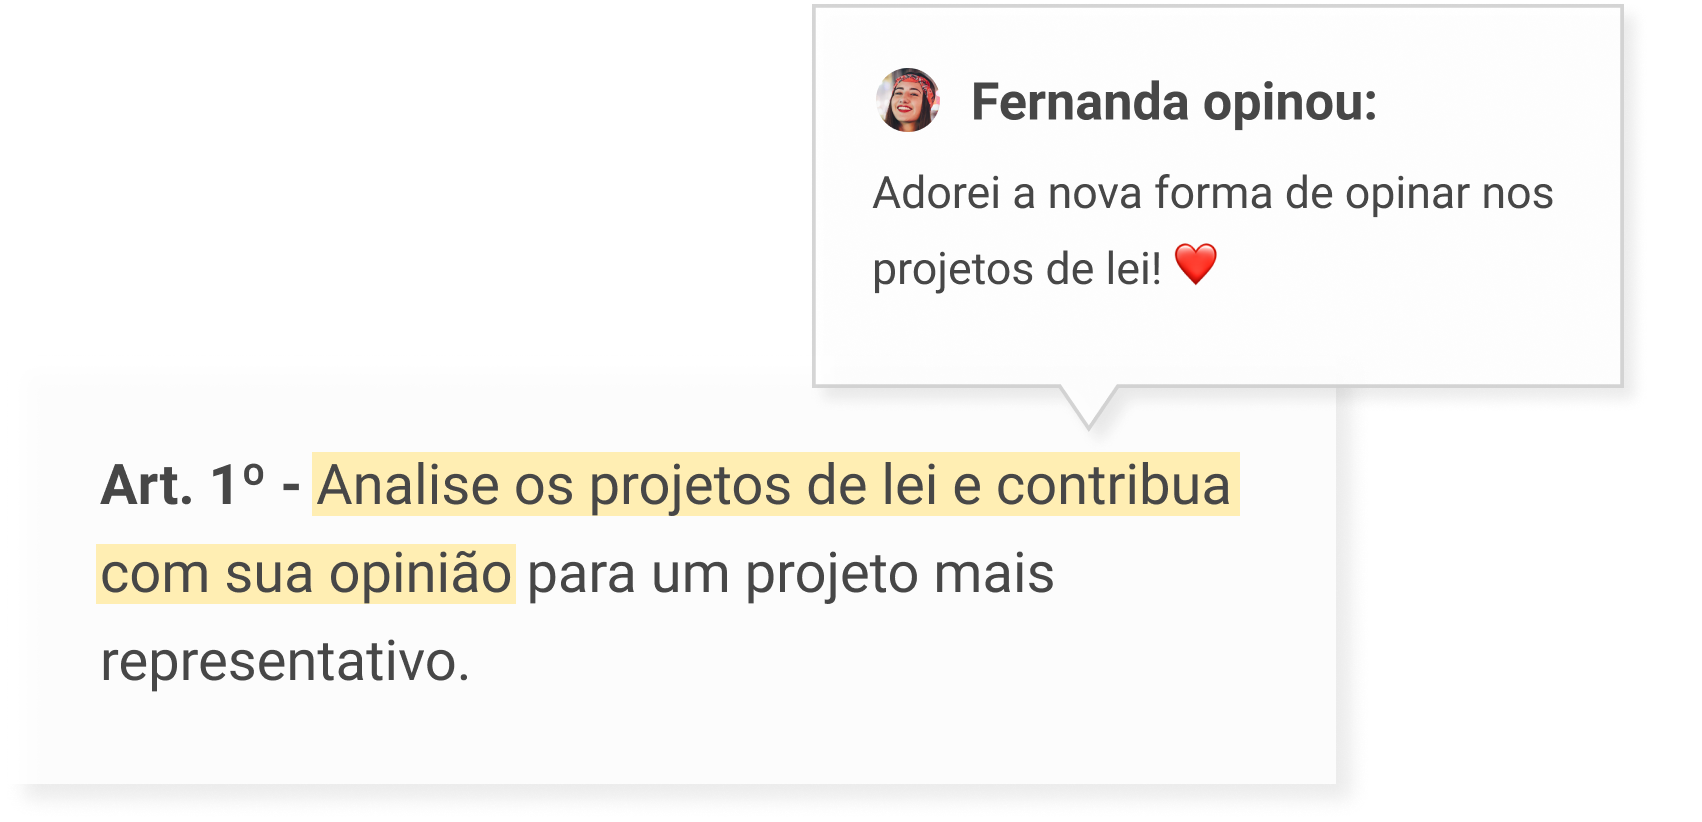
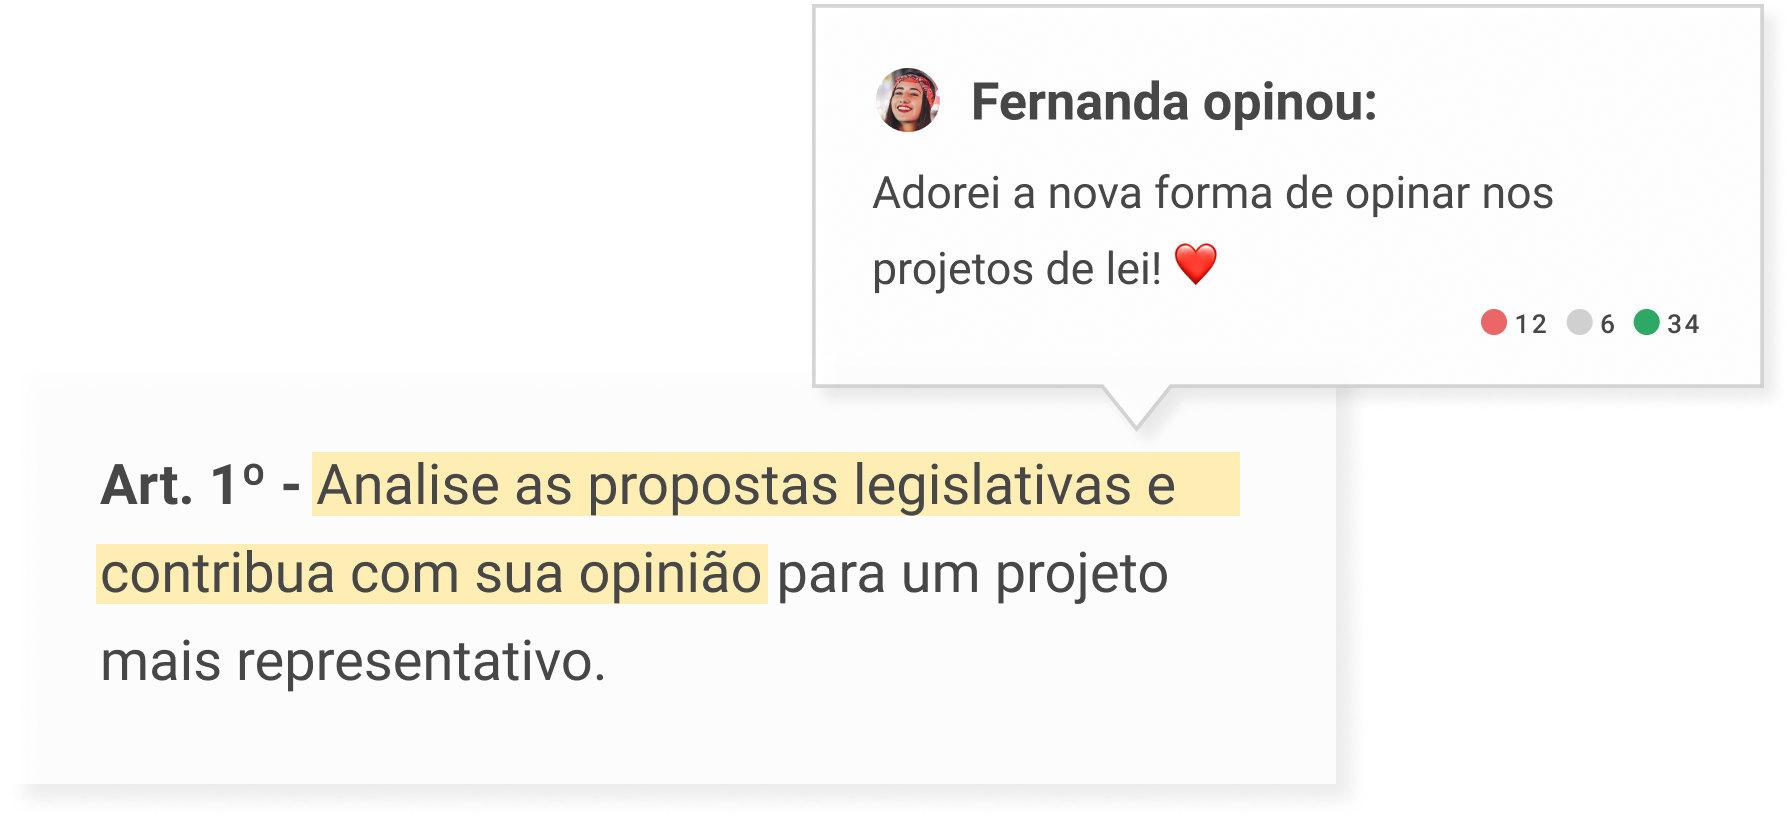
Change "project" labels to "legislative proposals"

diff --git a/src/templates/emails/remove_participant.html b/src/templates/emails/remove_participant.html
@@ -290,7 +290,7 @@
                             <td style="overflow-wrap:break-word;word-break:break-word;padding:12px;font-family:arial,helvetica,sans-serif;" align="left">
 
                               <div style="color: #000; line-height: 150%; text-align: center; word-wrap: break-word;">
-                                <p style="margin-top: 13px; margin-bottom: 13px; text-align: center; line-height: 150%; font-size: 14px;"><span style="color: #474747; font-family: Roboto, Tahoma, sans-serif; font-size: 14px; line-height: 21px;"><span style="font-size: 16px; line-height: 24px;">Voc&ecirc; foi removido do projeto {{ document.title }} pelo usu&aacute;rio {{ document.owner }}</span></span>
+                                <p style="margin-top: 13px; margin-bottom: 13px; text-align: center; line-height: 150%; font-size: 14px;"><span style="color: #474747; font-family: Roboto, Tahoma, sans-serif; font-size: 14px; line-height: 21px;"><span style="font-size: 16px; line-height: 24px;">Voc&ecirc; foi removido da proposta legislativa {{ document.title }} pelo usu&aacute;rio {{ document.owner }}</span></span>
                                 </p>
                               </div>
 
@@ -307,7 +307,7 @@
                               <div align="center">
                                 <!--[if mso]><table width="100%" cellpadding="0" cellspacing="0" border="0" style="border-spacing: 0; border-collapse: collapse; mso-table-lspace:0pt; mso-table-rspace:0pt;font-family:arial,helvetica,sans-serif;"><tr><td style="font-family:arial,helvetica,sans-serif;" align="center"><v:roundrect xmlns:v="urn:schemas-microsoft-com:vml" xmlns:w="urn:schemas-microsoft-com:office:word" href="http://{{ site_url }}{% url 'home' %}" style="height:44px; v-text-anchor:middle; width:198px;" arcsize="0%" stroke="f" fillcolor="#2da965"><w:anchorlock/><center style="color:#FFFFFF;font-family:arial,helvetica,sans-serif;"><![endif]-->
                                 <a href="http://{{ site_url }}{% url 'home' %}" target="_self" style="display: inline-block;font-family:arial,helvetica,sans-serif;text-decoration: none;-webkit-text-size-adjust: none;text-align: center;color: #FFFFFF; background-color: #2da965; border-radius: 0px; -webkit-border-radius: 0px; -moz-border-radius: 0px; width: auto; padding: 14px 34px; mso-border-alt: none;">
-                                  <span style="line-height:120%;">OUTROS PROJETO</span>
+                                  <span style="line-height:120%;">OUTRAS PROPOSTAS LEGISLATIVAS</span>
                                 </a>
                                 <!--[if mso]></center></v:roundrect></td></tr></table><![endif]-->
                               </div>

diff --git a/src/templates/emails/owner_invitation.html b/src/templates/emails/owner_invitation.html
@@ -290,7 +290,7 @@
                             <td style="overflow-wrap:break-word;word-break:break-word;padding:12px;font-family:arial,helvetica,sans-serif;" align="left">
 
                               <div style="color: #000; line-height: 150%; text-align: center; word-wrap: break-word;">
-                                <p style="margin-top: 13px; margin-bottom: 13px; color: #474747; font-family: Roboto, Tahoma, sans-serif; font-size: 11px; line-height: 150%;"><span style="font-size: 16px; line-height: 24px;">Analise os projetos de lei e contribua com sugest&otilde;es de nova reda&ccedil;&atilde;o a artigos ou par&aacute;grafos. Os deputados relatores das proposi&ccedil;&otilde;es acompanham as participa&ccedil;&otilde;es e podem adotar a sua ideia!</span></p>
+                                <p style="margin-top: 13px; margin-bottom: 13px; color: #474747; font-family: Roboto, Tahoma, sans-serif; font-size: 11px; line-height: 150%;"><span style="font-size: 16px; line-height: 24px;">Analise as propostas legislativas e contribua com sugest&otilde;es de nova reda&ccedil;&atilde;o a artigos ou par&aacute;grafos. Os deputados relatores das proposi&ccedil;&otilde;es acompanham as participa&ccedil;&otilde;es e podem adotar a sua ideia!</span></p>
                                 <p style="margin-top: 13px; margin-bottom: 13px; color: #474747; font-family: Roboto, Tahoma, sans-serif; font-size: 11px; line-height: 150%;"><span style="font-size: 16px; line-height: 24px;">Nessa intera&ccedil;&atilde;o, ganha a sociedade, que participa mais ativamente do processo legislativo, e ganha o Parlamento, que aprova leis mais aprimoradas e conectadas &agrave;s necessidades dos cidad&atilde;os.</span></p>
                               </div>
 

diff --git a/src/templates/emails/participant_invitation.html b/src/templates/emails/participant_invitation.html
@@ -290,7 +290,7 @@
                             <td style="overflow-wrap:break-word;word-break:break-word;padding:12px;font-family:arial,helvetica,sans-serif;" align="left">
 
                               <div style="color: #000; line-height: 150%; text-align: center; word-wrap: break-word;">
-                                <p style="margin-top: 13px; margin-bottom: 13px; color: #474747; font-family: Roboto, Tahoma, sans-serif; font-size: 11px; line-height: 150%;"><span style="font-size: 16px; line-height: 24px;">Analise os projetos de lei e contribua com sugest&otilde;es de nova reda&ccedil;&atilde;o a artigos ou par&aacute;grafos. Os deputados relatores das proposi&ccedil;&otilde;es acompanham as participa&ccedil;&otilde;es e podem adotar a sua ideia!</span></p>
+                                <p style="margin-top: 13px; margin-bottom: 13px; color: #474747; font-family: Roboto, Tahoma, sans-serif; font-size: 11px; line-height: 150%;"><span style="font-size: 16px; line-height: 24px;">Analise as propostas legislativas e contribua com sugest&otilde;es de nova reda&ccedil;&atilde;o a artigos ou par&aacute;grafos. Os deputados relatores das proposi&ccedil;&otilde;es acompanham as participa&ccedil;&otilde;es e podem adotar a sua ideia!</span></p>
                                 <p style="margin-top: 13px; margin-bottom: 13px; color: #474747; font-family: Roboto, Tahoma, sans-serif; font-size: 11px; line-height: 150%;"><span style="font-size: 16px; line-height: 24px;">Nessa intera&ccedil;&atilde;o, ganha a sociedade, que participa mais ativamente do processo legislativo, e ganha o Parlamento, que aprova leis mais aprimoradas e conectadas &agrave;s necessidades dos cidad&atilde;os.</span></p>
                               </div>
 

diff --git a/src/templates/components/app-onboarding.html b/src/templates/components/app-onboarding.html
@@ -9,9 +9,9 @@
     <h2>Dê a sua opinião</h2>
     <img class="selectimage" src="{% static 'img/text-select-onboarding.svg' %}">
     {% if current_path|startswith:"/p/" and current_path != "/p/new/" %}
-      <p><span class="text-highlight">Selecione o texto</span> do projeto para dar sua opinião. <br> Você pode fazer isso um artigo por vez!</p>
+      <p><span class="text-highlight">Selecione o texto</span> da proposta legislativa para dar sua opinião. <br> Você pode fazer isso um artigo por vez!</p>
     {% else %}
-      <p>Acesse um projeto e <span class="text-highlight">selecione o texto</span> dentro dele para dar sua opinião. <br> Você pode fazer isso um artigo por vez!</p>
+      <p>Acesse uma proposta legislativa e <span class="text-highlight">selecione o texto</span> dentro dele para dar sua opinião. <br> Você pode fazer isso um artigo por vez!</p>
     {% endif %}
     <button class="app-button -green js-next">Próximo</button>
   </div>

diff --git a/src/templates/components/hero.html b/src/templates/components/hero.html
@@ -1,7 +1,7 @@
 {% load staticfiles %}
 <div class="hero">
   <img src="{% static 'img/wikilegis-horizontal.svg' %}" alt="Wikilegis">
-  <h1>Dê <span class="text-highlight">sua opinião</span> em projetos de lei</h1>
-  <p>Analise os projetos de lei, contribua dando sua opinião em trechos do texto e avalie as opiniões de outros cidadãos.</p>
+  <h1>Dê <span class="text-highlight">sua opinião</span> em propostas legislativas</h1>
+  <p>Analise as propostas legislativas, contribua dando sua opinião em trechos do texto e avalie as opiniões de outros cidadãos.</p>
   <a class="app-button -green js-howtoButton">Como participar?</a>
 </div>

diff --git a/src/templates/components/participation-info-modal.html b/src/templates/components/participation-info-modal.html
@@ -10,6 +10,6 @@
 
 {% block content %}
 <h1>Quase lá 😉</h1>
-<p>Enviamos uma solicitação para o deputado confirmar a abertura pública do projeto. Pedimos um prazo de até 2 dias úteis para te dar uma resposta.</p>
+<p>Enviamos uma solicitação para o deputado confirmar a abertura pública da proposta legislativa. Pedimos um prazo de até 2 dias úteis para te dar uma resposta.</p>
 <button class="app-button -green js-close">Fechar</button>
 {% endblock content %}

diff --git a/src/templates/components/public-participation-modal.html b/src/templates/components/public-participation-modal.html
@@ -16,7 +16,7 @@
 {% block content %}
 <form>
 <h1 class="js-titleModal">Data de encerramento</h1>
-<p>Analise os projetos de lei e contribua com sugestões de nova redação a artigos ou parágrafos.</p>
+<p>Analise as propostas legislativas e contribua com sugestões de nova redação a artigos ou parágrafos.</p>
 <ul class="errorlist nonfield js-formError"></ul>
 <div class="input-text -required -date">
   {% if group.public_participation %}

diff --git a/src/templates/pages/invite-participants.html b/src/templates/pages/invite-participants.html
@@ -97,7 +97,7 @@
         {{ form.version.errors }}
         {% if not versions and not object %}
           <ul class="errorlist">
-            <li>Você precisa salvar uma versão do documento antes de abrir o projeto para um grupo de participação.</li>
+            <li>Você precisa salvar uma versão do documento antes de abrir a proposta legislativa para um grupo de participação.</li>
           </ul>
         {% endif %}
       </div>

diff --git a/src/templates/pages/home.html b/src/templates/pages/home.html
@@ -16,7 +16,7 @@
 
 <main class="projects-list" id="js-projects-list">
   <div class="header">
-    <h1>Projetos</h1>
+    <h1>Propostas legislativas</h1>
     <div class="tabs">
       <div class="tab -active">Participação Popular</div>
       <div class="tab">Abertos</div>
